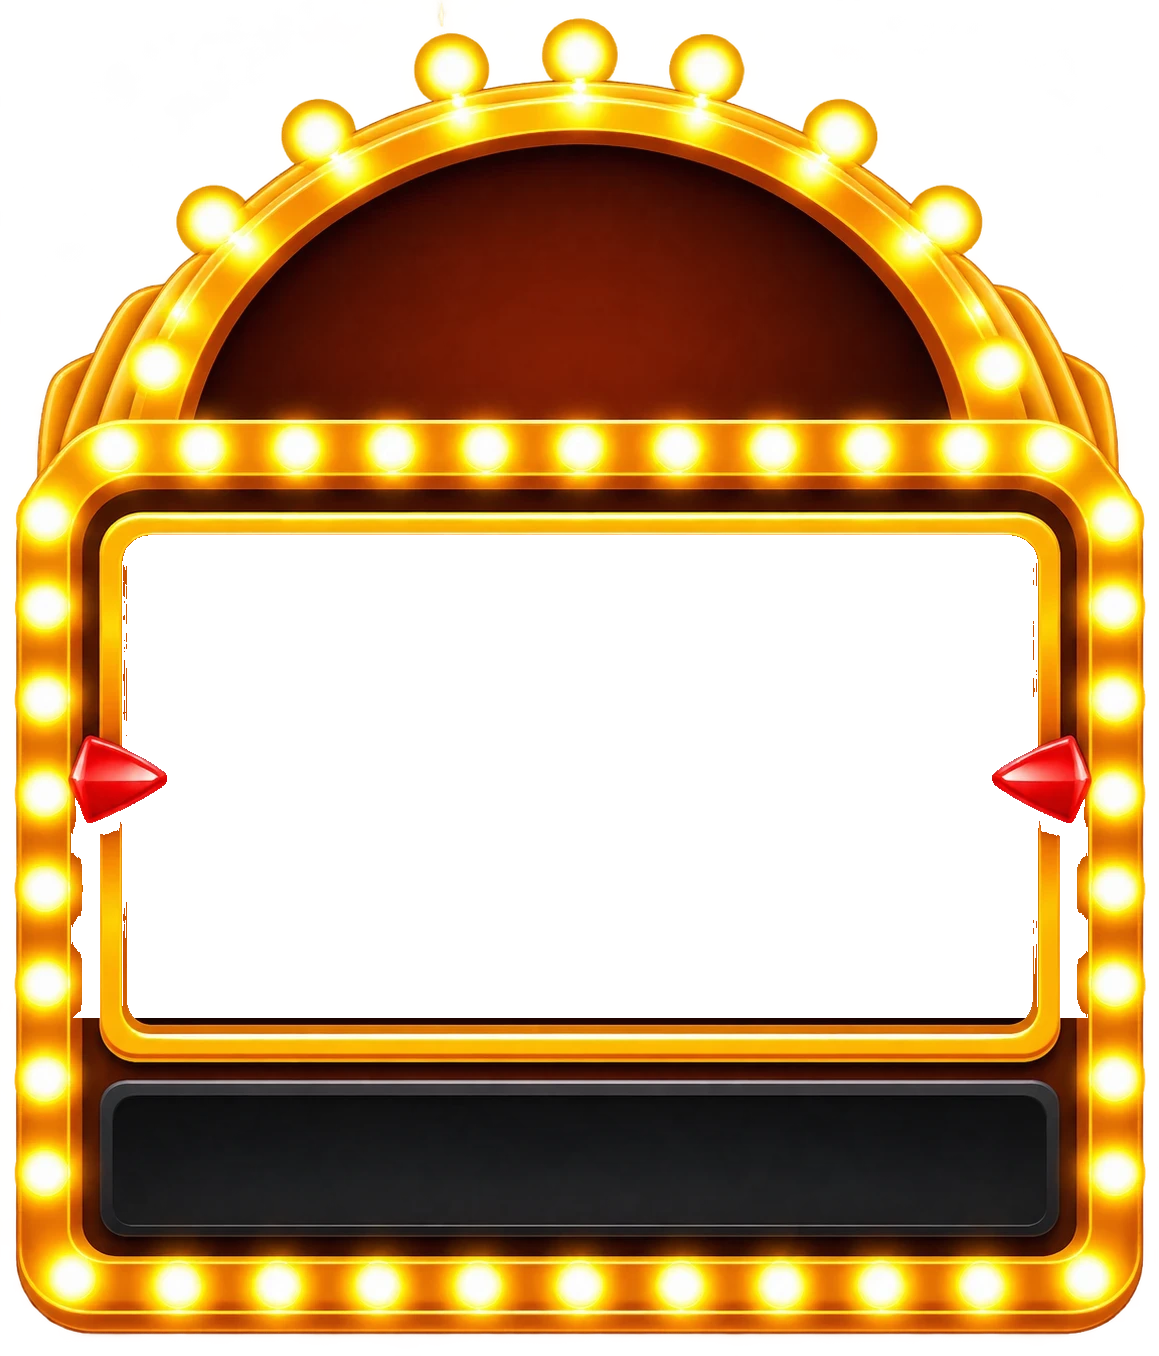
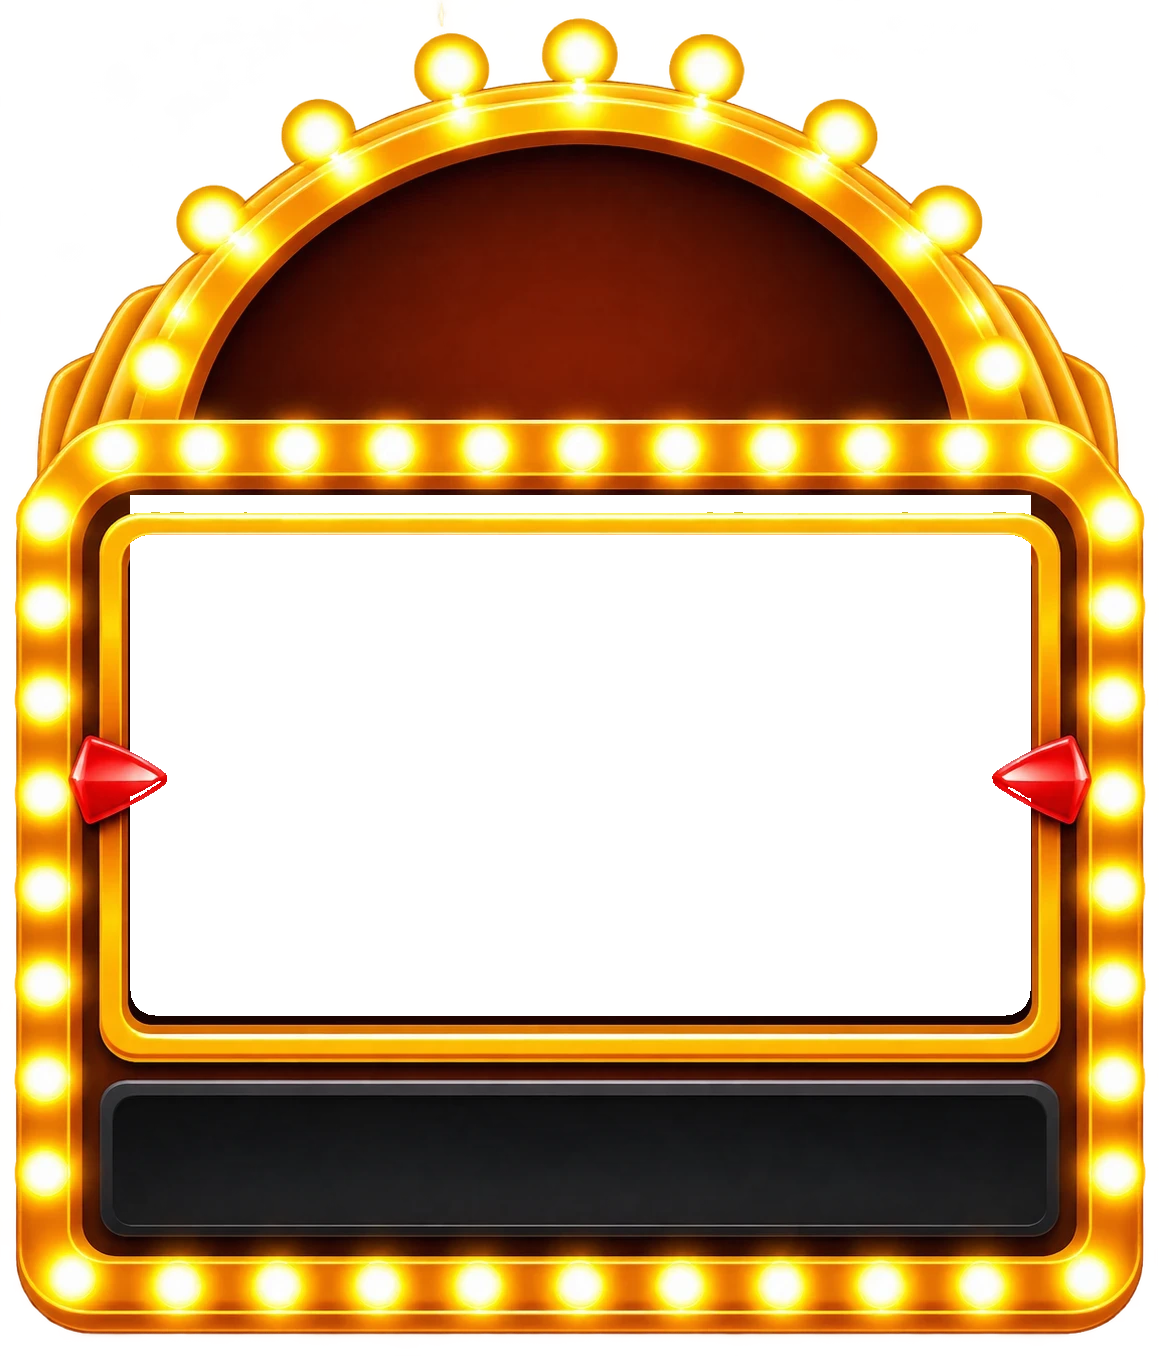
Fix slot frame transparency: clean rectangular cutout preserving arrows
Replace jagged flood-fill transparency with clean rectangular cutout.
Restore red arrows and golden highlights that were inside the rectangle.
No more reel content bleeding through frame borders.

diff --git a/index.html b/index.html
@@ -13,7 +13,7 @@
   <link rel="preconnect" href="https://fonts.googleapis.com">
   <link rel="preconnect" href="https://fonts.gstatic.com" crossorigin>
   <link href="https://fonts.googleapis.com/css2?family=Inter:wght@400;500;600;700;800;900&display=swap" rel="stylesheet">
-  <link rel="stylesheet" href="styles.css?v=117">
+  <link rel="stylesheet" href="styles.css?v=118">
 </head>
 <body>
 
